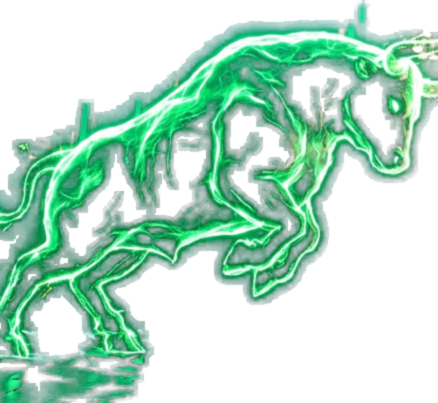
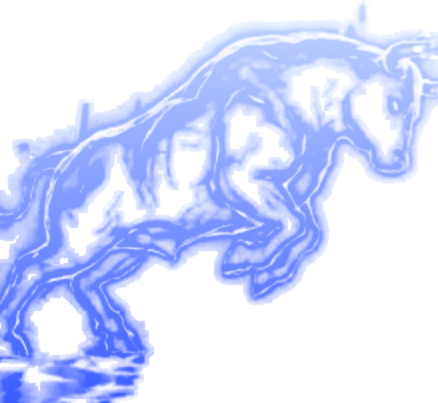
Recolor intro: blue candlesticks + blue bull, darker red bear
Recolor the candlesticks and the bull to the site's light-blue (indigo)
palette and make the bear a darker red; update the glow and clash-flash
colors to match.

Claude-Session: https://claude.ai/code/session_01BrjoBVZmRojmTheVBeNamT

diff --git a/src/components/LandingIntro.jsx b/src/components/LandingIntro.jsx
@@ -102,7 +102,7 @@ export default function LandingIntro({ onEnter, lang }) {
             animate={{ y: [0, -8, 0], rotate: [0, -1, 0] }}
             transition={{ duration: 0.5, repeat: Infinity, ease: "easeInOut" }}
             style={{ height: `${bullH}px`, width: "auto", display: "block",
-              filter: "drop-shadow(0 0 16px rgba(18,167,103,0.45))" }}
+              filter: "drop-shadow(0 0 16px rgba(59,91,255,0.5))" }}
             onError={(e) => { e.currentTarget.style.opacity = 0; }}
           />
         </div>
@@ -116,7 +116,7 @@ export default function LandingIntro({ onEnter, lang }) {
             animate={{ y: [0, -7, 0], rotate: [0, 1, 0] }}
             transition={{ duration: 0.54, repeat: Infinity, ease: "easeInOut" }}
             style={{ height: `${bearH}px`, width: "auto", display: "block",
-              filter: "drop-shadow(0 0 16px rgba(226,58,99,0.45))" }}
+              filter: "drop-shadow(0 0 16px rgba(140,18,46,0.55))" }}
             onError={(e) => { e.currentTarget.style.opacity = 0; }}
           />
         </div>
@@ -127,7 +127,7 @@ export default function LandingIntro({ onEnter, lang }) {
         position: "absolute", top: "46%", left: "50%", width: 280, height: 280,
         marginLeft: -140, marginTop: -140, pointerEvents: "none", borderRadius: "50%",
         opacity: clash, transform: `scale(${0.5 + clash})`,
-        background: "radial-gradient(circle, rgba(255,255,255,0.95) 0%, rgba(160,255,210,0.5) 40%, rgba(255,255,255,0) 70%)",
+        background: "radial-gradient(circle, rgba(255,255,255,0.95) 0%, rgba(180,200,255,0.55) 40%, rgba(255,255,255,0) 70%)",
       }} />
 
       {/* Titolo brand — svanisce man mano che si scorre */}

diff --git a/src/components/CandlestickBackground.jsx b/src/components/CandlestickBackground.jsx
@@ -118,7 +118,7 @@ export default function CandlestickBackground({ style, dark = false }) {
         const cd = candles[i];
         const x = i * spacing - offset + spacing;
         const up = cd.c >= cd.o;
-        const color = up ? (dark ? "#1FE38C" : "#12A767") : (dark ? "#FF4D6D" : "#E23A63");
+        const color = up ? (dark ? "#8FA8FF" : "#6E86FF") : (dark ? "#5A74FF" : "#3B5BFF");
         const yo = priceToY(cd.o), yc = priceToY(cd.c);
         const yh = priceToY(cd.h), yl = priceToY(cd.l);
 